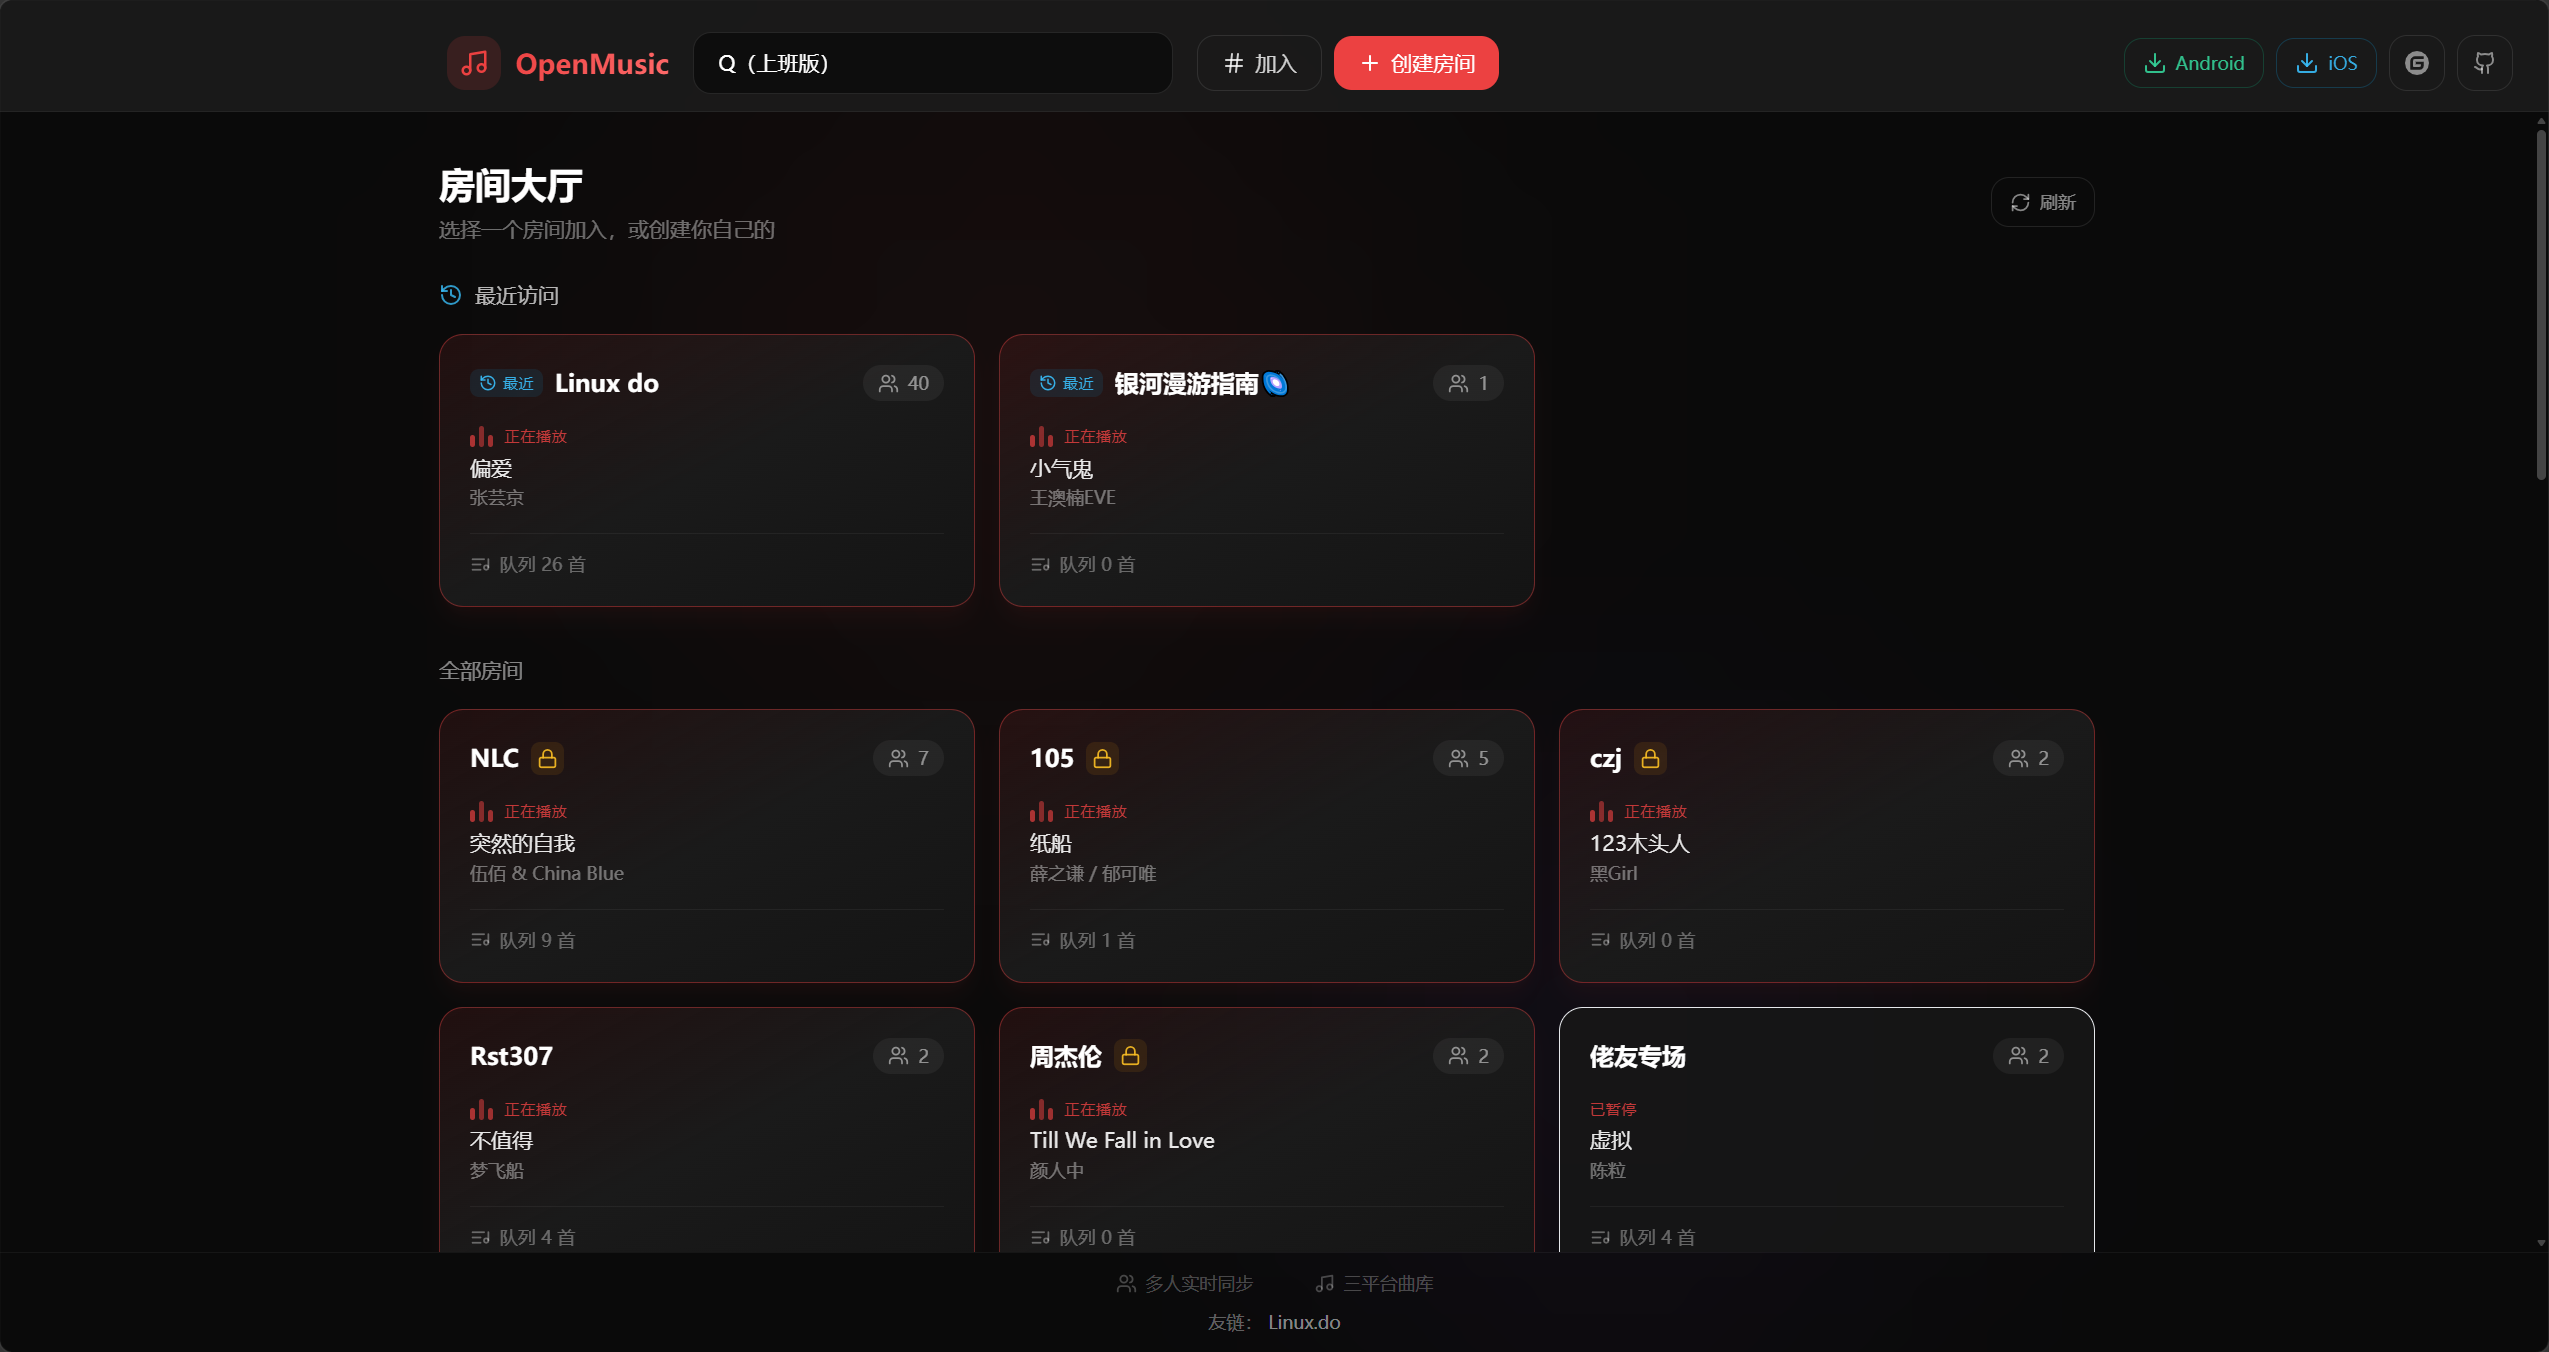
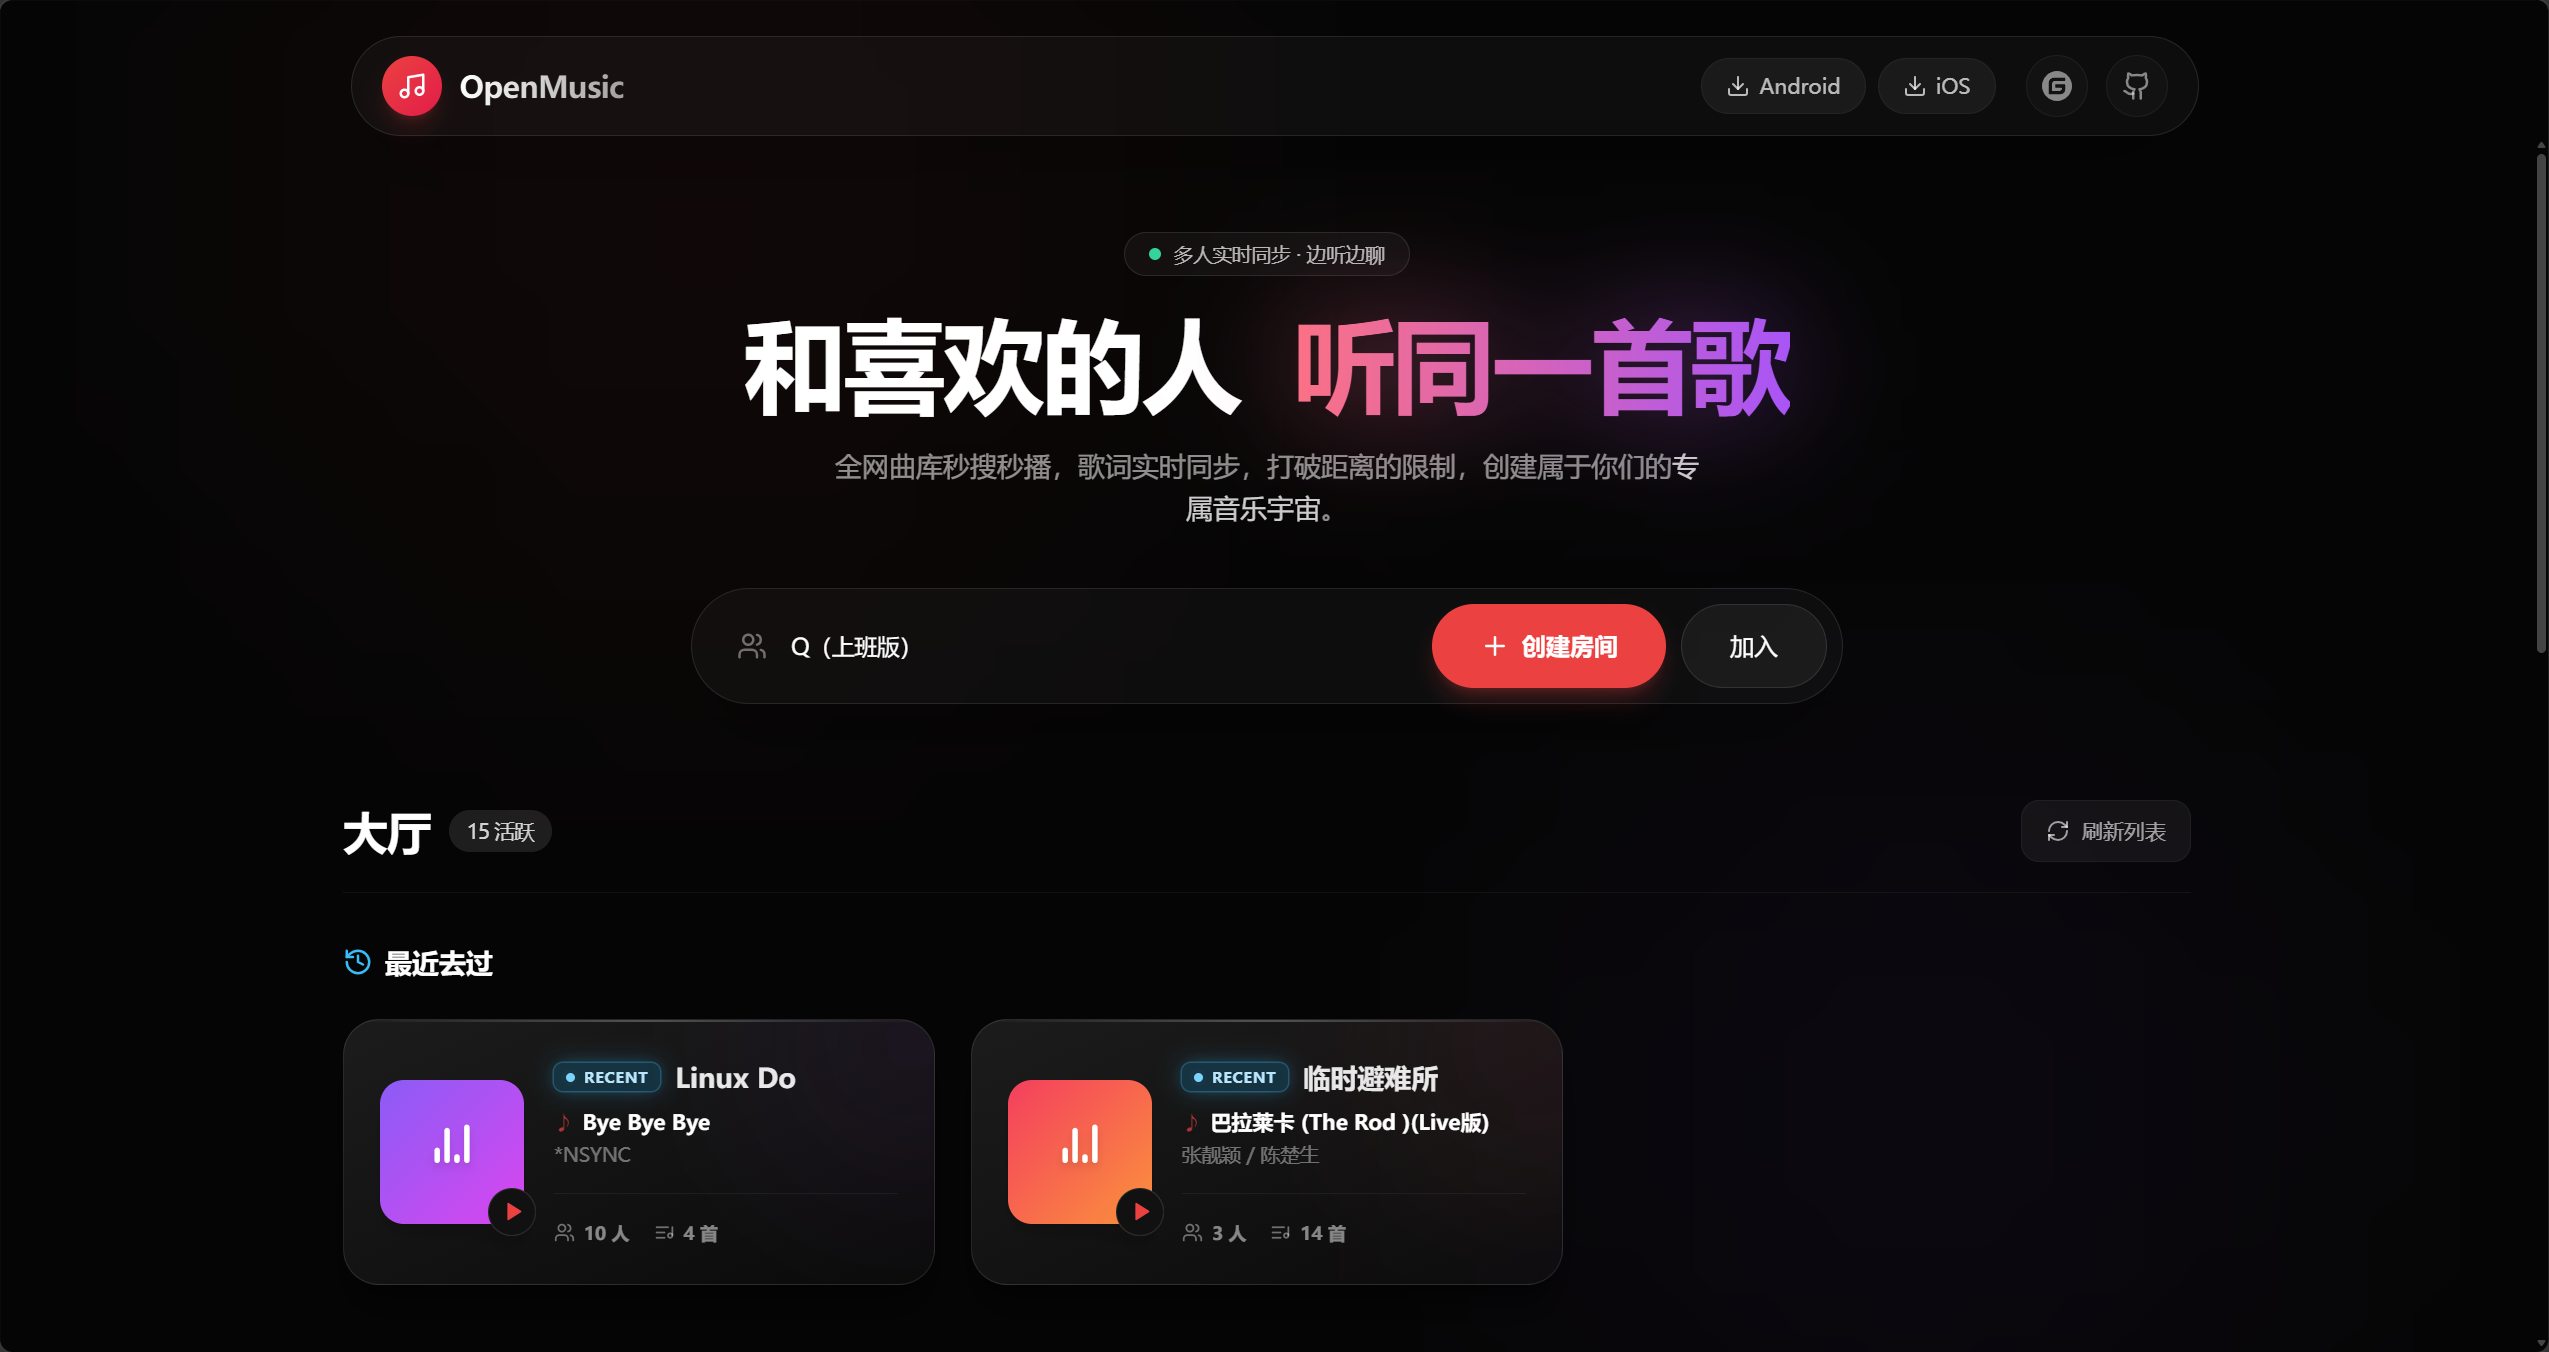
更新 README.md 中的项目截图格式，使用表格展示以提升可读性。同时，修改 Home.tsx 和 Room.tsx 文件以支持房间密码的存储和验证逻辑，优化用户进入房间的体验。

diff --git a/client/src/pages/Home.tsx b/client/src/pages/Home.tsx
@@ -12,6 +12,7 @@ import type { RoomSummary } from '../types';
 import { createRandomNickname } from '../lib/randomNickname';
 import { usePageSeo } from '../lib/seo';
 import { partitionRoomsByRecent } from '../lib/recentRooms';
+import { getStoredRoomPassword } from '../lib/roomPassword';
 import { areRoomListsEqual, isLobbyHardLocked, sortLobbyRooms } from '../lib/roomListCompare';
 import { isMobileDevice } from '../lib/audioUnlock';
 import { ANDROID_APK_URL } from '../lib/androidDownload';
@@ -252,10 +253,6 @@ const RoomCard = memo(function RoomCard({
     </>
   );
 
-  if (hardLocked) {
-    return <div className={cardClassName} aria-disabled="true">{body}</div>;
-  }
-
   return (
     <button
       type="button"
@@ -431,13 +428,17 @@ export default function Home() {
   };
 
   const handleRoomCardClick = useCallback((room: RoomSummary) => {
-    if (isLobbyHardLocked(room)) return;
     const trimmed = nickname.trim();
     if (!trimmed) {
       setNickname(createRandomNickname());
     }
     setError('');
-    navigate(`/room/${room.id}`);
+    const storedPassword = getStoredRoomPassword(room.id);
+    if (room.hasPassword && !storedPassword) {
+      navigate(`/room/${room.id}`, { state: { hasPassword: true } });
+      return;
+    }
+    goToRoom(room.id, storedPassword);
   }, [nickname, navigate, setNickname]);
 
   const { recent: recentRooms, others: otherRooms } = useMemo(() => {

diff --git a/client/src/pages/Room.tsx b/client/src/pages/Room.tsx
@@ -643,6 +643,12 @@ export default function Room() {
     // 清除上一次被踢/被解散残留的退出原因，否则新房间会误显示旧提示并被弹回首页
     useRoomStore.getState().setExitReason(null);
 
+    const navState = location.state as { hasPassword?: boolean } | null;
+    if (navState?.hasPassword && !roomPassword?.trim()) {
+      setNeedsPasswordPrompt(true);
+      return;
+    }
+
     joinRoom(roomId, nick, roomPassword).then((res) => {
       if (cancelled) return;
       if (!res.success) {

diff --git a/README.md b/README.md
@@ -23,9 +23,28 @@
 
 ## 📸 项目截图
 
-| 房间大厅 | 房间点歌 | 歌词播放 | 管理后台 |
-|:---:|:---:|:---:|:---:|
-| ![大厅](docs/screenshots/home.png) | ![房间](docs/screenshots/room.png) | ![歌词](docs/screenshots/lyrics.png) | ![管理后台](docs/screenshots/admin.png) |
+<table>
+  <tr>
+    <td align="center" width="50%">
+      <a href="docs/screenshots/home.png"><img src="docs/screenshots/home.png" alt="房间大厅" width="100%" /></a>
+      <br/><sub><b>房间大厅</b></sub>
+    </td>
+    <td align="center" width="50%">
+      <a href="docs/screenshots/room.png"><img src="docs/screenshots/room.png" alt="房间点歌" width="100%" /></a>
+      <br/><sub><b>房间点歌</b></sub>
+    </td>
+  </tr>
+  <tr>
+    <td align="center" width="50%">
+      <a href="docs/screenshots/lyrics.png"><img src="docs/screenshots/lyrics.png" alt="歌词播放" width="100%" /></a>
+      <br/><sub><b>歌词播放</b></sub>
+    </td>
+    <td align="center" width="50%">
+      <a href="docs/screenshots/admin.png"><img src="docs/screenshots/admin.png" alt="管理后台" width="100%" /></a>
+      <br/><sub><b>管理后台</b></sub>
+    </td>
+  </tr>
+</table>
 
 ---
 